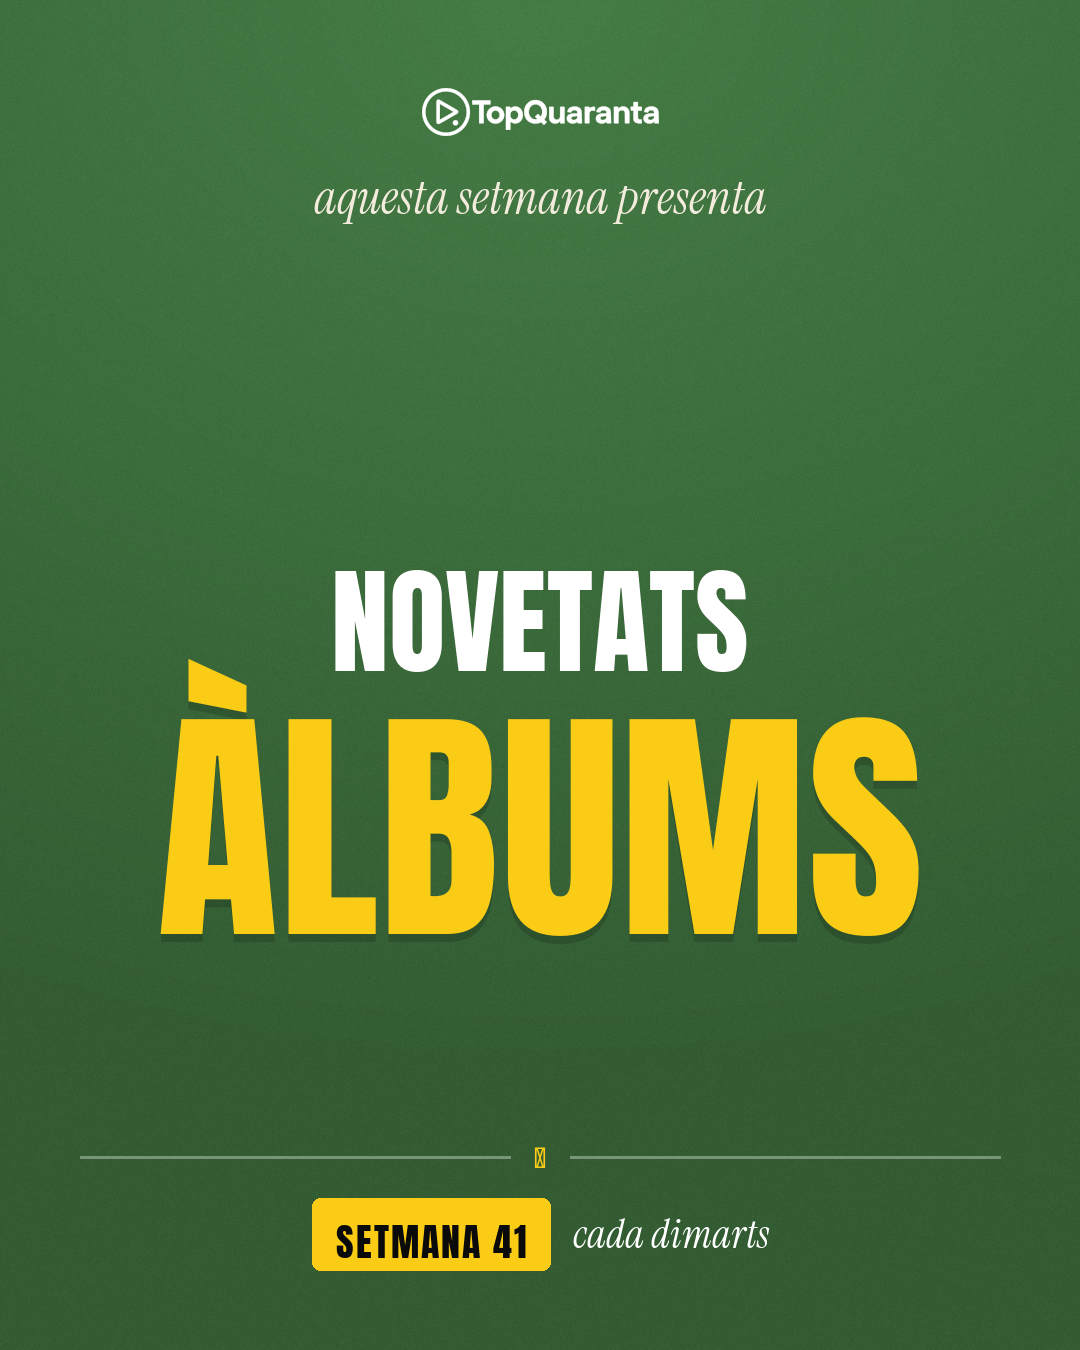
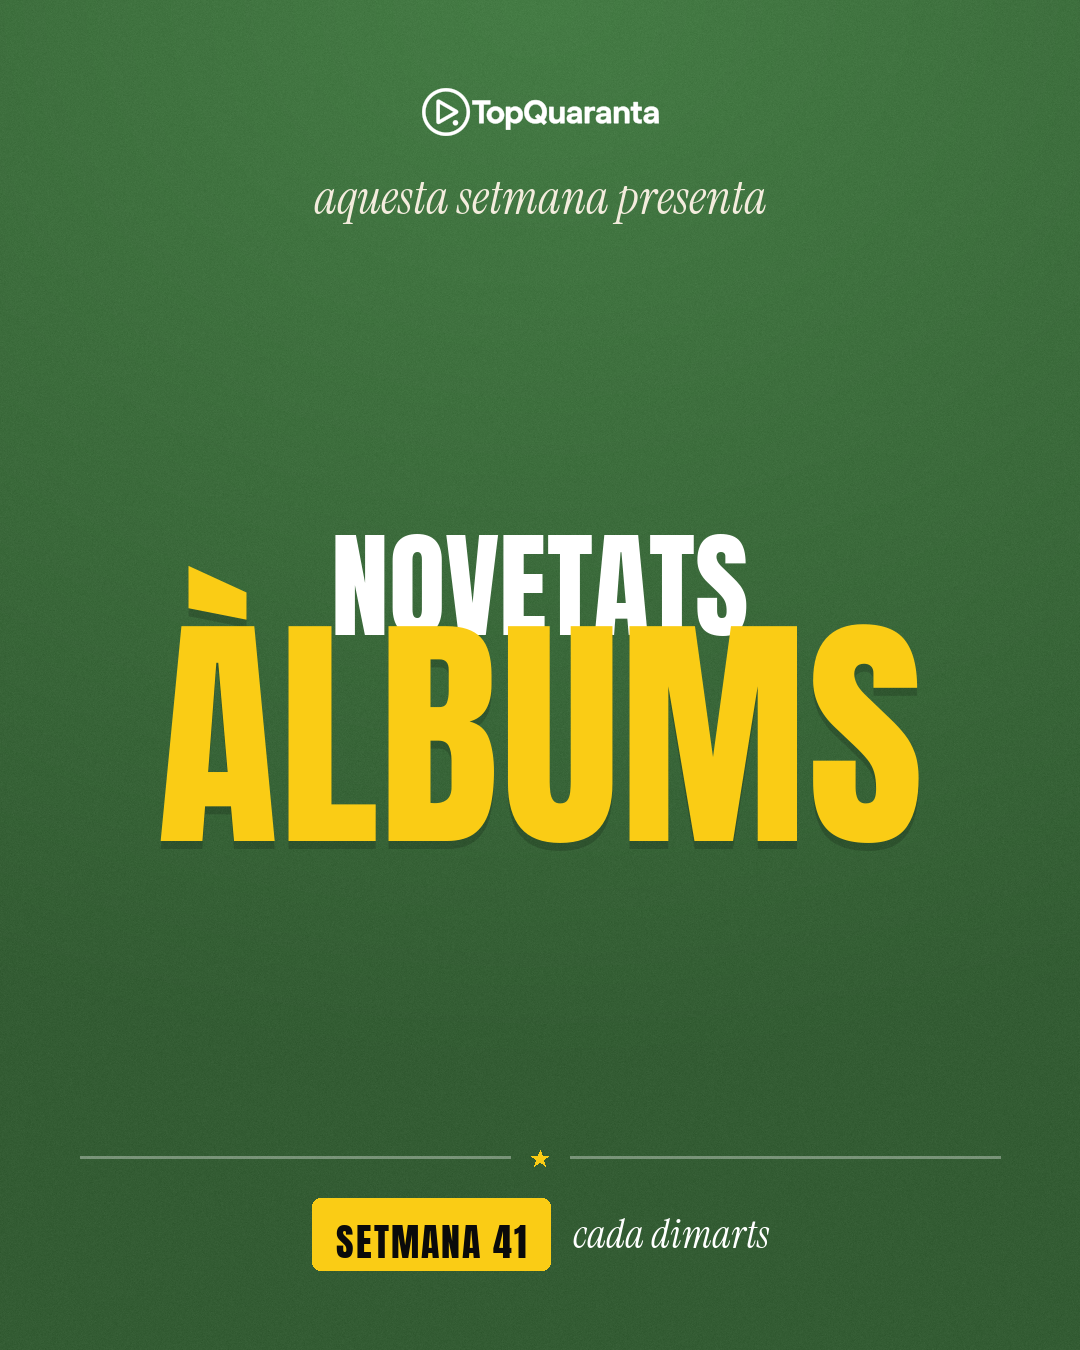
fix(social): ink-anchor the cover masthead + polygon star + fidelity pins
TASCA 1 — measured on the 1080×1350 references:
- NOVETATS/ÀLBUMS were ~36/93px too low because PIL placed text by the CSS
  line-box (anchor 'la') while the extraction gives CSS box tops. Now the
  masthead is anchored by INK cap-top via font.getbbox: novetats cap_top=535,
  etiqueta cap_top=626 in the fitxa. Measured result matches the reference to
  0px (white 535-634, yellow 626-840, overlap identical), so the white now
  overlaps the yellow exactly.
- Star: drawn as a 5-point POLYGON (not a text glyph), ~18×16 centred on the
  divider rule (cx540 cy1159), with the flanking rules.
- Album band: already at y1112 (the exact-value rebuild had fixed it; the
  reference band top measures 1112 too) — no change needed.
- Samples: added 08_singles_10_noppcc.png (10 real territories, no PPCC) for
  1:1 comparison with the reference; kept the PPCC sample (04) as blinding
  proof.

TASCA 2 — automatic fidelity pins (numbers only, no oracle images, grain-robust):
- Measure the NOVETATS white ink band, the ÀLBUMS yellow ink band (top/bottom/
  overlap), the album band top, and the singles first-row top + pitch from the
  10-row grid; assert against the extracted fitxa values with ±8px tolerance.
- Singles-blinding pin via chip-row count.

Still additive + gated (feed_redisseny_actiu default False); legacy untouched.
Tests 20/20 in the file; social suite 308 green.

Changed region(s): [[0.1528, 0.3733, 0.8556, 0.7156], [0.4889, 0.84, 0.5194, 0.8711]]

diff --git a/social/tests/test_feed_redesign.py b/social/tests/test_feed_redesign.py
@@ -10,6 +10,7 @@ from __future__ import annotations
 
 import datetime
 
+import numpy as np
 import pytest
 from PIL import Image
 
@@ -161,3 +162,125 @@ def test_album_title_never_ellipsised(fake_cover):
     long = "Camí Llarguíssim de la Tramuntana Ventosa i Gelada del Nord"
     img = feed_redesign.build_album({**ALBUM, "nom": long})
     assert img.size == (1080, 1350)
+
+
+# ── fidelity pins: pixel-measured ink milestones vs the extracted fitxa ──
+#
+# These guard against the layout silently drifting (e.g. PIL line-height vs
+# CSS box anchoring). They MEASURE ink in the render and assert against the
+# values in feed-tokens.json with ±8 px tolerance. No oracle images: only
+# numbers, and the thresholds sit well above the gaussian grain so they are
+# robust. A milestone that can't be measured stably is intentionally left out
+# (noted inline) rather than made fragile.
+
+TOL = 8
+
+
+def _rows(mask_counts, y0, y1, thr):
+    """Row indices in [y0,y1) whose per-row ink count exceeds `thr`."""
+    return [r for r in range(y0, y1) if mask_counts[r] > thr]
+
+
+def _channels(img):
+    a = np.asarray(img.convert("RGB"), np.int16)
+    return a[:, :, 0], a[:, :, 1], a[:, :, 2]
+
+
+def test_cover_masthead_ink_anchored_to_fitxa():
+    """NOVETATS (white) and ÀLBUMS (yellow) cap-top ink must land at the
+    fitxa cap_top (±8), and the white must overlap the yellow (À accent)."""
+    R, G, B = _channels(feed_redesign.build_cover("nous_albums", SET))
+    sl = slice(120, 960)  # masthead x-region (excludes logo edges)
+    white = ((R[:, sl] > 200) & (G[:, sl] > 200) & (B[:, sl] > 190)).sum(1)
+    yellow_main = ((R[:, sl] > 190) & (G[:, sl] > 140) & (B[:, sl] < 110)).sum(1)
+    yellow_any = yellow_main  # same mask; low threshold below catches the accent
+    w = _rows(white, 400, 960, 40)
+    ym = _rows(yellow_main, 400, 960, 120)
+    ya = _rows(yellow_any, 400, 960, 20)
+
+    C = feed_redesign.tokens()["cover"]
+    assert abs(w[0] - C["novetats"]["cap_top"]) <= TOL  # white cap-top = 535
+    assert abs(ym[0] - C["etiqueta"]["cap_top"]) <= TOL  # yellow cap-top = 626
+    # white ink bottom overlaps the yellow (the À accent rises into it).
+    overlap = w[-1] - ya[0]
+    assert overlap >= 30, f"white must overlap yellow, got {overlap}px"
+    # Heights pin the bottoms robustly (font-size determined).
+    assert 80 <= (w[-1] - w[0]) <= 120
+    assert 190 <= (ym[-1] - ym[0]) <= 235
+
+
+def test_cover_singles_masthead_matches_albums():
+    """The SINGLES cover masthead sits at the same cap-tops as ÀLBUMS."""
+    R, G, B = _channels(feed_redesign.build_cover("nous_singles", SET))
+    sl = slice(120, 960)
+    white = ((R[:, sl] > 200) & (G[:, sl] > 200) & (B[:, sl] > 190)).sum(1)
+    yellow = ((R[:, sl] > 190) & (G[:, sl] > 140) & (B[:, sl] < 110)).sum(1)
+    C = feed_redesign.tokens()["cover"]
+    assert abs(_rows(white, 400, 960, 40)[0] - C["novetats"]["cap_top"]) <= TOL
+    assert abs(_rows(yellow, 400, 960, 120)[0] - C["etiqueta"]["cap_top"]) <= TOL
+
+
+def test_album_band_top_matches_fitxa(fake_cover):
+    """The territory band top = band.bottom - band.h1 (1-line title)."""
+    img = feed_redesign.build_album(ALBUM)  # VAL deep = rgb(138,74,30)
+    col = np.asarray(img.convert("RGB"), np.int16)[:, 40, :]
+    A = feed_redesign.tokens()["album"]["band"]
+    expected = A["bottom"] - A["h1"]
+    rows = [
+        r
+        for r in range(1000, 1350)
+        if abs(col[r, 0] - 138) < 25
+        and abs(col[r, 1] - 74) < 25
+        and abs(col[r, 2] - 30) < 25
+    ]
+    assert rows, "VAL deep band not found"
+    assert abs(rows[0] - expected) <= TOL
+
+
+SINGLES_10 = [
+    {
+        "nom": "S%d" % i,
+        "artista_nom": "A%d" % i,
+        "artista_territori": c,
+        "cover_url": "x",
+    }
+    for i, c in enumerate(
+        ["CAT", "VAL", "BAL", "CNO", "FRA", "AND", "ALG", "BAL", "VAL", "CAT"], 1
+    )
+]
+
+
+def test_singles_row_top_and_pitch_match_fitxa(fake_cover):
+    """First row top = rows.y0 and the row pitch = rows.pitch (±8). Measured
+    from the saturated territory chips at x=100 (10 rows, no PPCC)."""
+    img = feed_redesign.build_singles(SINGLES_10, 1, 2, setmana=SET)
+    col = np.asarray(img.convert("RGB"), np.int16)[:, 100, :]
+    colored = [r for r in range(250, 1250) if int(col[r].max()) > 50]
+    tops, prev = [], -10
+    for r in colored:
+        if r - prev > 3:
+            tops.append(r)
+        prev = r
+    R = feed_redesign.tokens()["singles"]["rows"]
+    assert len(tops) == 10, f"expected 10 chip rows, got {len(tops)}"
+    assert abs(tops[0] - R["y0"]) <= TOL
+    diffs = sorted(tops[i + 1] - tops[i] for i in range(len(tops) - 1))
+    pitch = diffs[len(diffs) // 2]
+    assert abs(pitch - R["pitch"]) <= TOL
+
+
+def test_singles_blinds_ppcc_row_count(fake_cover):
+    """A PPCC row is dropped: 5 items with one PPCC → 4 chip rows."""
+    items = [
+        {"nom": "x", "artista_nom": "a", "artista_territori": c, "cover_url": "x"}
+        for c in ["CAT", "VAL", "PPCC", "BAL", "CNO"]
+    ]
+    img = feed_redesign.build_singles(items, 1, 1)
+    col = np.asarray(img.convert("RGB"), np.int16)[:, 100, :]
+    colored = [r for r in range(250, 1250) if int(col[r].max()) > 50]
+    tops, prev = [], -10
+    for r in colored:
+        if r - prev > 3:
+            tops.append(r)
+        prev = r
+    assert len(tops) == 4

diff --git a/social/feed_redesign.py b/social/feed_redesign.py
@@ -126,12 +126,22 @@ def _layer():
     return Image.new("RGBA", (CANVAS_W, CANVAS_H), (0, 0, 0, 0))
 
 
-def _text(img, x, y, text, font, fill, *, align="left", tracking=0.0):
-    """Draw one line; `y` is the line-box top (CSS box top, anchor 'la').
+def _cap_offset(font) -> float:
+    """Vertical offset from a 'la'-anchored draw point to the cap-top ink,
+    using a plain capital. Lets us anchor by INK position (robust to the
+    font's line-height) instead of the CSS box, which PIL places lower."""
+    return font.getbbox("H", anchor="la")[1]
+
+
+def _text(img, x, y, text, font, fill, *, align="left", tracking=0.0, cap_top=None):
+    """Draw one line. `y` is the line-box top (anchor 'la'); if `cap_top` is
+    given instead, the glyph CAP-TOP ink lands at `cap_top` (ink-anchored).
     `align`: x is left / centre / right edge. `tracking` = letter-spacing px.
     Alpha-correct: drawn on a transparent layer then composited."""
     if not text:
         return
+    if cap_top is not None:
+        y = cap_top - _cap_offset(font)
     lay = _layer()
     d = ImageDraw.Draw(lay)
     advances = [d.textlength(ch, font=font) for ch in text]
@@ -257,6 +267,22 @@ def _wrap(d, text, font, budget):
     return lines
 
 
+def _star(img, s):
+    """Draw a 5-point star as a polygon (not a text glyph)."""
+    import math
+
+    cx, cy = s["cx"], s["cy"]
+    R, r = s["outer"], s["inner"]
+    pts = []
+    for i in range(s["points"] * 2):
+        rad = R if i % 2 == 0 else r
+        ang = -math.pi / 2 + i * math.pi / s["points"]
+        pts.append((cx + rad * math.cos(ang), cy + rad * math.sin(ang)))
+    lay = _layer()
+    ImageDraw.Draw(lay).polygon(pts, fill=_col(s["color"]))
+    img.alpha_composite(lay)
+
+
 # ── slide 1 · cover ──────────────────────────────────────────────────
 
 
@@ -283,15 +309,18 @@ def build_cover(tipus: str, setmana) -> Image.Image:
         align="center",
     )
 
+    # NOVETATS (white) and ÀLBUMS/SINGLES (yellow) are ink-anchored by
+    # cap-top so the white overlaps the yellow exactly like the reference.
     n = C["novetats"]
     _text(
         img,
         540,
-        n["y"],
+        0,
         n["text"],
         _font("anton", n["size"]),
         _col(n["color"]),
         align="center",
+        cap_top=n["cap_top"],
     )
 
     e = C["etiqueta"]
@@ -301,14 +330,25 @@ def build_cover(tipus: str, setmana) -> Image.Image:
     _text(
         img,
         540 + sh["dx"],
-        e["y"] + sh["dy"],
+        0,
         et,
         f_e,
         _col(sh["color"]),
         align="center",
         tracking=e["ls"],
+        cap_top=e["cap_top"] + sh["dy"],
     )
-    _text(img, 540, e["y"], et, f_e, _col(e["color"]), align="center", tracking=e["ls"])
+    _text(
+        img,
+        540,
+        0,
+        et,
+        f_e,
+        _col(e["color"]),
+        align="center",
+        tracking=e["ls"],
+        cap_top=e["cap_top"],
+    )
 
     r = C["rule"]
     _rect(
@@ -321,16 +361,7 @@ def build_cover(tipus: str, setmana) -> Image.Image:
         (r["right"][0], r["y"], r["right"][1], r["y"] + r["h"]),
         fill=_col(r["color"]),
     )
-    s = C["star"]
-    _text(
-        img,
-        s["cx"],
-        s["y"],
-        s["text"],
-        _font("anton", s["size"]),
-        _col(s["color"]),
-        align="center",
-    )
+    _star(img, C["star"])
 
     # Bottom row: SETMANA pill (left) + cadència italic (right), group centred.
     pill, cad, grp = C["pill"], C["cadencia"], C["bottom_group"]

diff --git a/social/feed_design/render_samples.py b/social/feed_design/render_samples.py
@@ -57,6 +57,7 @@ ALBUM_NOCOVER = {
     "cover_url": None,
 }
 
+# With a PPCC row (position 8) — proves the blinding (renders only 9 rows).
 SINGLES = [
     {
         "nom": f"Cançó número {i}",
@@ -67,6 +68,28 @@ SINGLES = [
     for i, code in enumerate(
         ["CAT", "VAL", "BAL", "CNO", "FRA", "AND", "ALG", "PPCC", "CAT", "VAL"], 1
     )
+]
+# 10 real territories, NO PPCC — full grid for 1:1 comparison with the
+# reference singles.png (mirrors its CAT/VAL/BAL/NOR/BAL/FRA/AND/ALG/BAL/VAL).
+SINGLES_10 = [
+    {
+        "nom": nom,
+        "artista_nom": art,
+        "artista_territori": code,
+        "cover_url": "x",
+    }
+    for nom, art, code in [
+        ("Foc d'estiu", "Marès", "CAT"),
+        ("La rambla buida", "Quetzal", "CAT"),
+        ("L'Albufera", "Nèstor Vidal", "VAL"),
+        ("Tramuntana", "Cabanes", "CNO"),
+        ("Sal i vent", "Aurora Blau", "BAL"),
+        ("Camí de sirga", "Els Pèlags", "FRA"),
+        ("Nit andorrana", "Mistral", "AND"),
+        ("Carrer de l'Alguer", "Bruna", "ALG"),
+        ("Onada curta", "Falç", "BAL"),
+        ("Plana endins", "Verdic", "VAL"),
+    ]
 ]
 SINGLES_NOCOVER = [{**s, "cover_url": None} for s in SINGLES[:6]]
 
@@ -93,6 +116,11 @@ def main():
         feed_redesign.build_album(ALBUM_NOCOVER).save(OUT / "06_album_nocover.png")
         feed_redesign.build_singles(SINGLES_NOCOVER, 1, 1, setmana=SET).save(
             OUT / "07_singles_nocover.png"
+        )
+        # 10 rows, no PPCC — direct 1:1 with reference singles.png.
+        cover_cache.fetch = with_cover(2)
+        feed_redesign.build_singles(SINGLES_10, 1, 2, setmana=SET).save(
+            OUT / "08_singles_10_noppcc.png"
         )
     finally:
         cover_cache.fetch = orig
